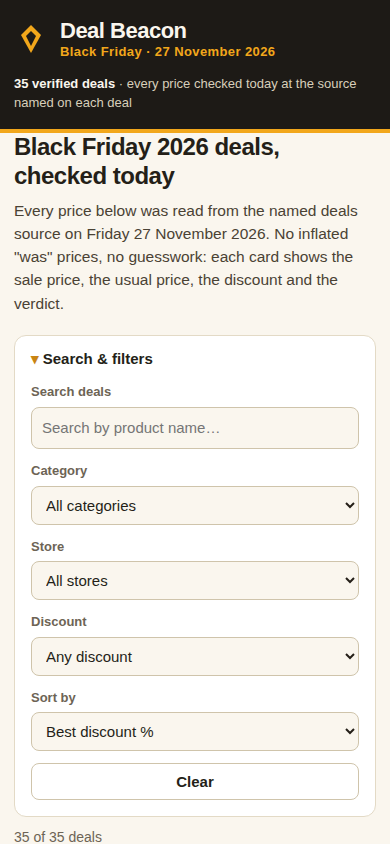
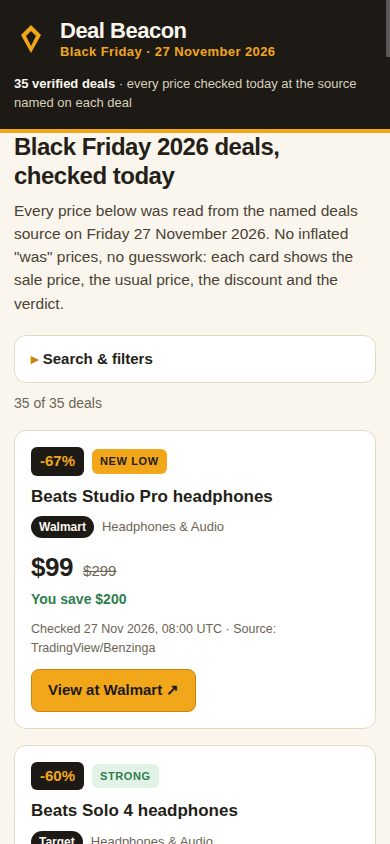
Hermes FIX FIRST: AirTag 2 $18 (-38% NEW LOW, 9to5Mac); phone filters collapsed; Clear button fixed; STRONG legend tightened; How-we-verify anchor scrolls

diff --git a/app/main.js b/app/main.js
@@ -97,6 +97,11 @@ function wireList(state) {
   const clear = document.getElementById('clear-filters');
   const clearEmpty = document.getElementById('clear-empty');
 
+  // Keep the filter panel collapsed on phones so the first deal is visible
+  // above the fold; open it by default on wider screens.
+  const filtersWrap = document.querySelector('.filters-wrap');
+  if (filtersWrap) filtersWrap.open = window.matchMedia('(min-width: 641px)').matches;
+
   // The grid and the count update live; the filter controls are never re-rendered
   // while the shopper types, so focus stays where it is.
   const refreshGrid = () => {
@@ -122,7 +127,15 @@ function wireList(state) {
     state.store = '';
     state.discount = '';
     state.sort = 'discount';
-    renderList();
+    // Clear the DOM controls too, then re-render the grid from the blank
+    // state. (Calling renderList() here would re-derive the state from the
+    // stale URL hash and un-clear everything.)
+    if (search) search.value = '';
+    if (category) category.value = '';
+    if (store) store.value = '';
+    if (discount) discount.value = '';
+    if (sort) sort.value = 'discount';
+    refreshGrid();
     document.getElementById('q')?.focus();
   };
 
@@ -173,7 +186,16 @@ function render() {
     document.title = 'Deal Beacon — Black Friday 27 November 2026';
     renderList();
   }
-  window.scrollTo(0, 0);
+  // An in-page anchor (e.g. #how-we-verify from the footer) should land on
+  // its section, not the top of the page.
+  const anchorId = location.hash.startsWith('#') && !location.hash.startsWith('#/')
+    ? location.hash.slice(1)
+    : '';
+  if (anchorId) {
+    document.getElementById(anchorId)?.scrollIntoView();
+  } else {
+    window.scrollTo(0, 0);
+  }
   window.__shotReady = true;
 }
 

diff --git a/app/views.js b/app/views.js
@@ -83,7 +83,7 @@ export function listPage(shown, state, counts) {
   <h1>Black Friday 2026 deals, checked today</h1>
   <p class="lede">Every price below was read from the named deals source on Friday 27 November 2026. No inflated "was" prices, no guesswork: each card shows the sale price, the usual price, the discount and the verdict.</p>
 </section>
-<details class="filters-wrap" open>
+<details class="filters-wrap">
   <summary>Search &amp; filters</summary>
   ${filterBar(state)}
 </details>
@@ -96,13 +96,13 @@ ${cards}
     <dt><span class="verdict verdict-new-low">NEW LOW</span></dt>
     <dd>The lowest price ever, or the lowest in 90 days, according to a price tracker or the source that reported it.</dd>
     <dt><span class="verdict verdict-strong">STRONG</span></dt>
-    <dd>A large, genuine cut &mdash; 40% or more, or a big dollar saving &mdash; on a current product.</dd>
+    <dd>A big cut: 40%+ off, or $100 or more off a current product.</dd>
     <dt><span class="verdict verdict-good">GOOD</span></dt>
     <dd>A solid cut of 20&ndash;40%, worth buying if you want the item.</dd>
     <dt><span class="verdict verdict-modest">MODEST</span></dt>
     <dd>A small cut. Only worth it if you already wanted the item.</dd>
   </dl>
-  <p>Store links go to that store&rsquo;s search page for the exact product name. Direct product URLs rotate during the sale; the search page shows the same product at the store, at the price we checked.</p>
+  <p>Store links go to that store&rsquo;s search page for the exact product name. Direct product URLs rotate during the sale; the search page shows the same product at the store, and the price we read at check time is the one on the card.</p>
 </section>`;
 }
 

diff --git a/app/data.js b/app/data.js
@@ -257,7 +257,7 @@ export const deals = [
     url: "https://www.target.com/s?searchTerm=Amazon%20Kindle%20Paperwhite%2016GB",
     checked: "2026-11-27T08:00:00Z",
     source: "TradingView/Benzinga + comicbook",
-    verdict: "STRONG",
+    verdict: "GOOD",
   },
   {
     id: "donkey-kong-bananza",
@@ -420,11 +420,11 @@ export const deals = [
     title: "Apple AirTag 2 (1-pack)",
     store: "Amazon",
     category: "Smart Home & Wearables",
-    price: 23,
+    price: 18,
     was: 29,
     url: "https://www.amazon.com/s?k=Apple%20AirTag%202%20%281-pack%29",
     checked: "2026-11-27T08:00:00Z",
-    source: "9to5Toys",
+    source: "9to5Mac",
     verdict: "NEW LOW",
   },
 ];
